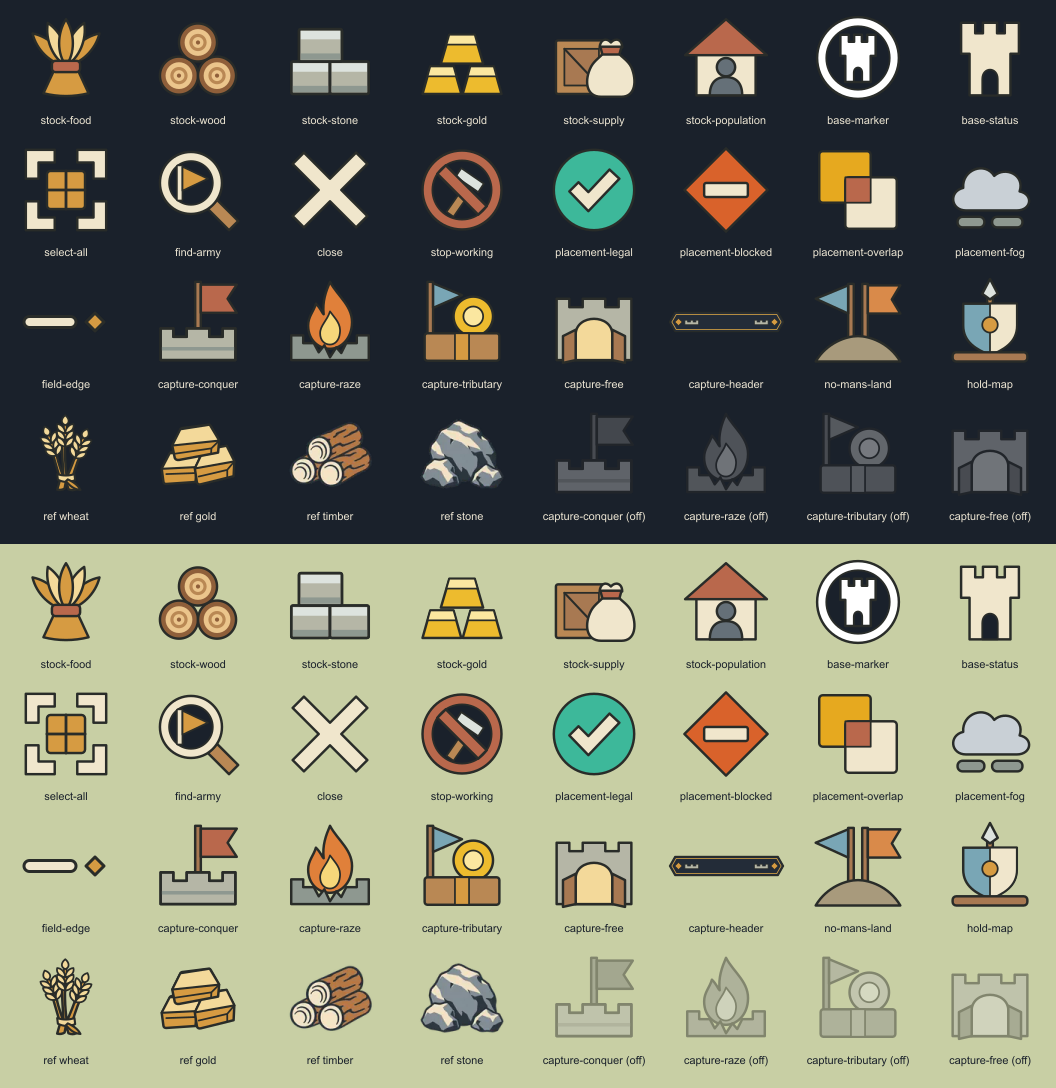
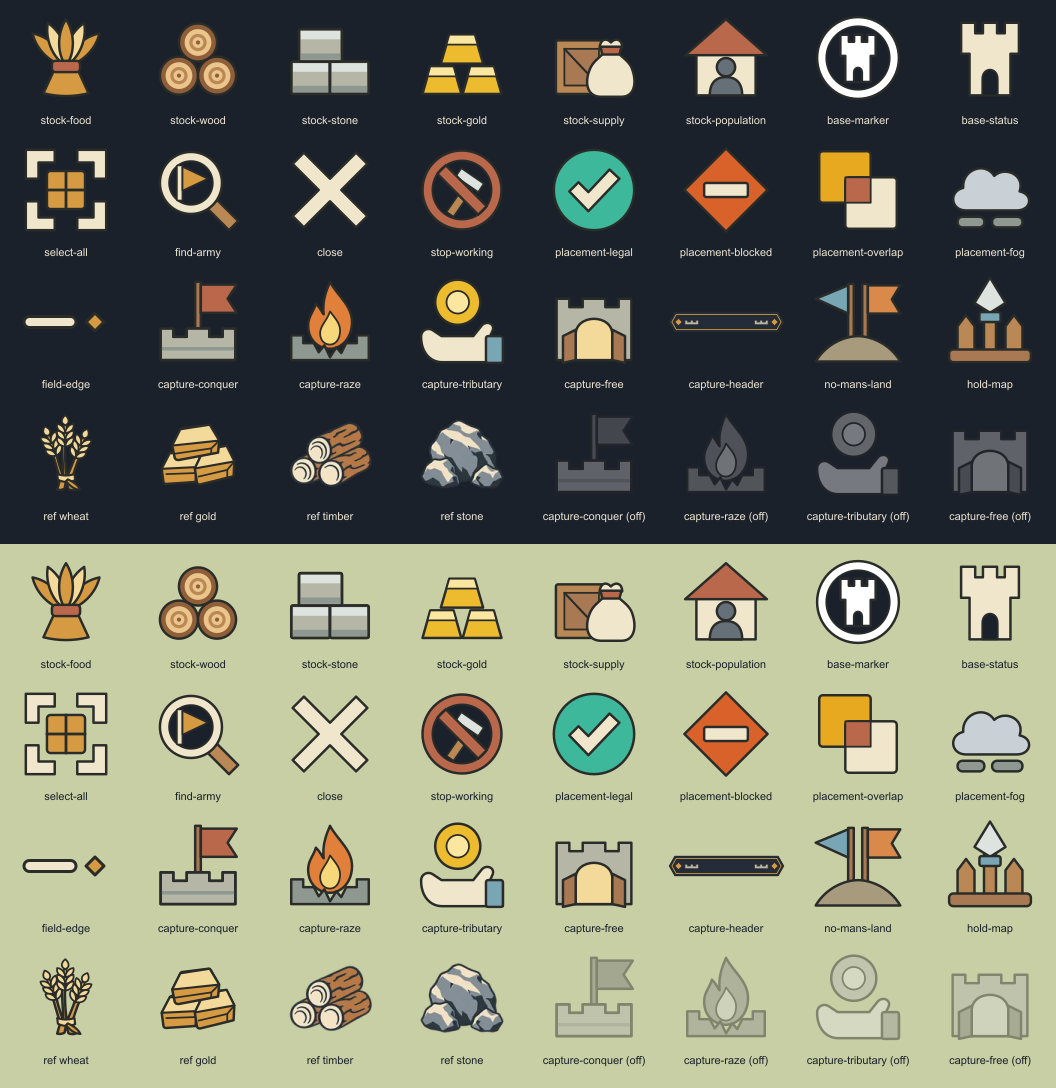
Art: redraw capture-tributary (a coin into an open hand) and hold-map (a planted spear between stakes)
Both were unclear at small sizes. Sheets and LOG.md updated.

diff --git a/plans/art-pilot/ui-icons-oct13/LOG.md b/plans/art-pilot/ui-icons-oct13/LOG.md
@@ -55,11 +55,11 @@ Group `ui` (`src/assets/icons/ui/`, new group), found with `uiIconUrl(id)`:
 | --- | --- | --- |
 | `capture-conquer.svg` | UI15 | Conquer: a banner planted on a wall. |
 | `capture-raze.svg` | UI15 | Raze: a broken wall on fire. |
-| `capture-tributary.svg` | UI15 | Make tributary: a chest and a coin under a small pennant. |
+| `capture-tributary.svg` | UI15 | Make tributary: one big coin dropping into an open hand. |
 | `capture-free.svg` | UI15 | Free: a gate standing open. |
 | `capture-header.svg` | UI15 | Card header plate, 512x96, the middle left empty for the title. |
 | `no-mans-land.svg` | UI17 | Pre-battle card badge: bare ground between two sides' pennants. |
-| `hold-map.svg` | UI07 | Campaign Hold marker: a planted spear and shield on a ground line. |
+| `hold-map.svg` | UI07 | Campaign Hold marker: a spear planted between two stakes on a thick ground line. |
 
 Not made, on purpose: Materials (retired), a house marker (houses, landmarks and walls have no marker),
 UI18.
@@ -115,16 +115,25 @@ The four label glyphs carry the same colours and differ by shape (circle, diamon
    (`background-size: 100% 100%`), and `<GameIcon disabled />` for a choice that is not on offer.
 3. Draw `base-marker` over HQ, camp or keep and the economy and military buildings (not houses,
    landmarks or walls), tinted by side; show `base-status` beside the "standing" counter.
-4. Swap the build sheet's close button and its Stop working button to `close` and `stop-working`, and
-   the command bar's All and find buttons to `select-all` and `find-army`.
+4. Give the build sheet's Stop working button `stop-working` (its close button keeps the lucide
+   glyph), and the command bar's All and find buttons `select-all` and `find-army`.
 5. Put `hold-map` on campaign units that hold, and `no-mans-land` on the pre-battle card.
 6. Placement: the label glyphs, the tints above, `field-edge` as a repeating texture on the edge band.
 
+## Second pass (review at small sizes)
+
+- `capture-tributary` was a chest, a coin and a pennant, and turned into a blob at 16 px. It is now one
+  idea: a big coin over an open hand. Checked at 14 px on the true-size sheet.
+- `hold-map` was a shield, which did not say "stay here". It is now a spear planted between two stakes
+  on a ground line. It has no ring (base marker), no pennant (find army) and no wall (conquer).
+
+## Settled by the user
+
+- The battle keeps the new `stock-food` and `stock-gold`. The campaign's `wheat` and `gold` are untouched.
+- "Free" stays the open gate.
+- The HUD close button keeps its one-colour lucide glyph. `close.svg` stays in the folder, unused.
+
 ## Open points
 
-- `stock-food` and `stock-gold` are new drawings, bolder than the campaign's `wheat` and `gold`, so the
-  battle bar reads at 11 px. The campaign icons are untouched. Say so if the battle should reuse them.
-- `capture-tributary` is the busiest of the set at 11 px (chest, coin, pennant). It reads from 14 px.
-- The glyphs (`close`, `select-all`, `find-army`) are coloured art, while the HUD buttons today use
-  one-colour lucide glyphs. The code session may prefer to keep lucide for `close`.
+- `select-all` and `find-army` are coloured art, while the HUD buttons today use one-colour lucide glyphs.
 - `resources/timber.webp` and `resources/stone.webp` stay: the campaign map still uses them.
